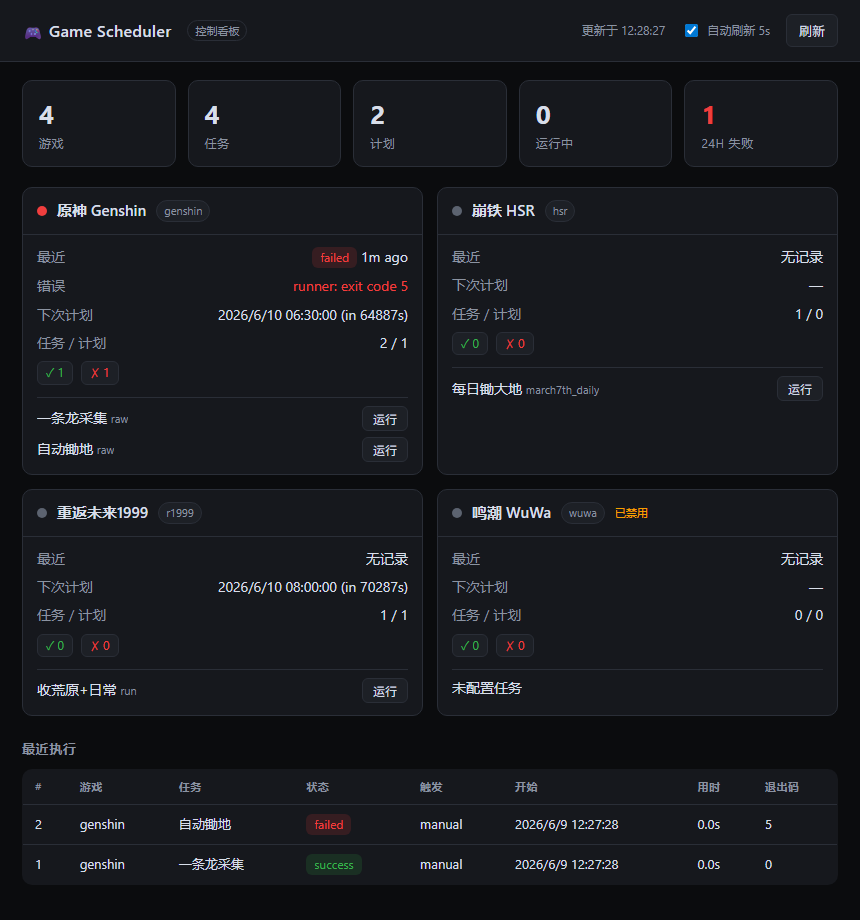
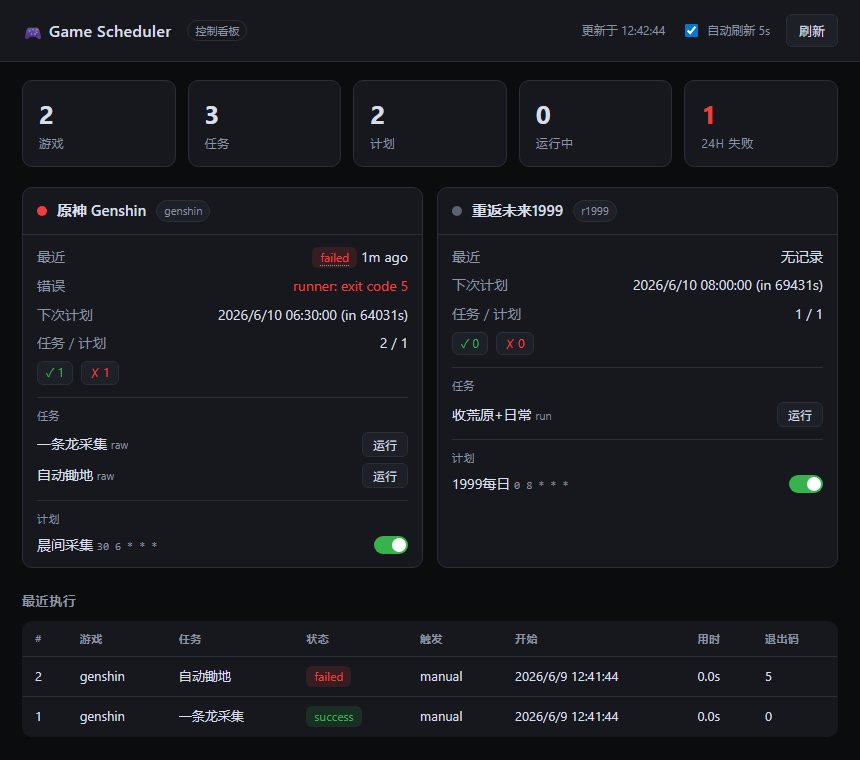
feat: dashboard execution-detail modal + per-plan toggles
- /api/dashboard now includes each game's plan_list (id/name/cron/enabled/
  next_run) and last_exec_id.
- Dashboard: click a recent row or a card's last-run badge to open a modal
  with command, error, stdout/stderr, exit code, timings and screenshot path;
  active runs get a Cancel button (POST /executions/{id}/cancel).
- Per-plan enable/disable switches on each game card (PUT /plans/{id}); the
  scheduler reloads and next-run updates live.
- Refreshed docs/dashboard.png and README.

diff --git a/internal/api/web/index.html b/internal/api/web/index.html
@@ -65,6 +65,32 @@
   h2{font-size:13px;color:var(--muted);text-transform:uppercase;letter-spacing:.6px;margin:0 0 10px}
   .empty{color:var(--muted);padding:24px;text-align:center}
   #err{color:var(--err);font-size:12px}
+  tbody tr{cursor:pointer} tbody tr:hover td{background:var(--panel2)}
+  .clickable{cursor:pointer;text-decoration:underline dotted var(--muted) 1px;text-underline-offset:3px}
+  .plans{border-top:1px solid var(--border);margin-top:4px;padding-top:8px;display:grid;gap:6px}
+  .plan{display:flex;align-items:center;gap:8px;justify-content:space-between}
+  .plan .pn{overflow:hidden;text-overflow:ellipsis;white-space:nowrap}
+  .plan .cron{color:var(--muted);font-size:11px;font-family:ui-monospace,Consolas,monospace}
+  .switch{position:relative;width:34px;height:18px;flex:none}
+  .switch input{opacity:0;width:0;height:0}
+  .slider{position:absolute;inset:0;background:var(--idle);border-radius:20px;transition:.2s;cursor:pointer}
+  .slider:before{content:"";position:absolute;height:14px;width:14px;left:2px;top:2px;background:#fff;border-radius:50%;transition:.2s}
+  .switch input:checked + .slider{background:var(--ok)}
+  .switch input:checked + .slider:before{transform:translateX(16px)}
+  .sub{color:var(--muted);font-size:11px;text-transform:uppercase;letter-spacing:.5px;margin:2px 0}
+  /* modal */
+  .overlay{position:fixed;inset:0;background:rgba(0,0,0,.6);display:none;align-items:flex-start;justify-content:center;z-index:50;padding:40px 16px;overflow:auto}
+  .overlay.open{display:flex}
+  .modal{background:var(--panel);border:1px solid var(--border);border-radius:12px;width:min(820px,100%);max-height:85vh;display:flex;flex-direction:column}
+  .modal .mh{display:flex;align-items:center;gap:10px;padding:14px 18px;border-bottom:1px solid var(--border)}
+  .modal .mh h3{margin:0;font-size:15px;flex:1}
+  .modal .mb{padding:16px 18px;overflow:auto}
+  .modal .x{cursor:pointer;color:var(--muted);font-size:20px;line-height:1}
+  .kv{display:grid;grid-template-columns:120px 1fr;gap:6px 14px;margin-bottom:14px}
+  .kv .k{color:var(--muted)}
+  pre{background:var(--bg);border:1px solid var(--border);border-radius:8px;padding:10px 12px;margin:0 0 12px;
+    max-height:240px;overflow:auto;white-space:pre-wrap;word-break:break-word;font:12px/1.5 ui-monospace,Consolas,monospace}
+  .danger{border-color:var(--err);color:var(--err)} .danger:hover{background:rgba(240,62,62,.12)}
 </style>
 </head>
 <body>
@@ -86,6 +112,12 @@
     <tbody id="recent"></tbody>
   </table>
 </main>
+<div class="overlay" id="overlay">
+  <div class="modal">
+    <div class="mh"><h3 id="m-title">执行详情</h3><span class="x" onclick="closeModal()">✕</span></div>
+    <div class="mb" id="m-body"></div>
+  </div>
+</div>
 <script>
 const $ = s => document.querySelector(s);
 function fmtTime(t){ if(!t) return "—"; const d=new Date(t); if(isNaN(d)) return "—"; return d.toLocaleString(); }
@@ -113,8 +145,18 @@ function gameCard(g){
       ${g.active?`<span class="pill run">● ${g.active} 进行中</span>`:""}
     </div>`;
   const last = g.last_status
-    ? `<span class="st ${g.last_status}">${g.last_status}</span> <span class="meta">${rel(g.last_run)}</span>`
+    ? `<span class="st ${g.last_status} clickable" onclick="openExec(${g.last_exec_id})">${g.last_status}</span> <span class="meta">${rel(g.last_run)}</span>`
     : `<span class="meta">无记录</span>`;
+  const plans = (g.plan_list||[]).map(p=>`
+      <div class="plan">
+        <span class="pn">${esc(p.name)} <span class="cron">${esc(p.cron)}</span></span>
+        <label class="switch" title="${p.enabled?'已启用':'已停用'} · 下次 ${p.next_run?fmtTime(p.next_run):'—'}">
+          <input type="checkbox" ${p.enabled?'checked':''} onchange="togglePlan(${esc(JSON.stringify(p)).replace(/'/g,'&#39;')},this)">
+          <span class="slider"></span>
+        </label>
+      </div>`).join("");
+  const plansBlock = (g.plan_list||[]).length
+      ? `<div class="plans"><div class="sub">计划</div>${plans}</div>` : "";
   const lastErr = (g.last_status==='error'||g.last_status==='failed')&&g.last_error
     ? `<div class="row"><span class="k">错误</span><span class="val" style="color:var(--err);max-width:200px;overflow:hidden;text-overflow:ellipsis;white-space:nowrap" title="${esc(g.last_error)}">${esc(g.last_error)}</span></div>` : "";
   const tasks = (g.task_list||[]).map(t=>`
@@ -133,7 +175,8 @@ function gameCard(g){
       <div class="row"><span class="k">下次计划</span><span class="val">${g.next_run?fmtTime(g.next_run)+' ('+rel(g.next_run)+')':'—'}</span></div>
       <div class="row"><span class="k">任务 / 计划</span><span class="val">${g.tasks} / ${g.plans}</span></div>
       ${counts}
-      <div class="tasks">${tasks}</div>
+      <div class="tasks"><div class="sub">任务</div>${tasks}</div>
+      ${plansBlock}
     </div>
   </div>`;
 }
@@ -147,13 +190,63 @@ async function load(){
       statCard(d.totals.games,"游戏")+statCard(d.totals.tasks,"任务")+statCard(d.totals.plans,"计划")+
       statCard(d.totals.running,"运行中")+statCard(d.totals.failed_24h,"24h 失败",d.totals.failed_24h>0);
     $("#games").innerHTML = (d.games||[]).map(gameCard).join("") || '<div class="empty">还没有配置游戏。用 ctl 或 REST API 添加。</div>';
-    const rows=(d.recent||[]).map(e=>`<tr>
+    const rows=(d.recent||[]).map(e=>`<tr onclick="openExec(${e.id})">
         <td>${e.id}</td><td>${esc(e.game_id)}</td><td>${esc(e.task_name)}</td>
         <td><span class="st ${e.status}">${e.status}</span></td>
         <td>${esc(e.trigger)}</td><td>${fmtTime(e.start_time)}</td>
         <td>${dur(e.duration_sec)}</td><td>${e.exit_code==null?'—':e.exit_code}</td></tr>`).join("");
     $("#recent").innerHTML = rows || '<tr><td colspan="8" class="empty">暂无执行记录</td></tr>';
   }catch(e){ $("#err").textContent="加载失败: "+e; }
+}
+
+async function openExec(id){
+  if(!id) return;
+  const ov=$("#overlay"), body=$("#m-body");
+  $("#m-title").textContent="执行 #"+id;
+  body.innerHTML='<div class="empty">加载中…</div>'; ov.classList.add("open");
+  try{
+    const r=await fetch("/api/executions/"+id); if(!r.ok) throw new Error("HTTP "+r.status);
+    const e=await r.json();
+    const active = e.status==="running"||e.status==="pending";
+    const shot = e.screenshot_path ? `<div class="kv"><span class="k">截图</span><span><code>${esc(e.screenshot_path)}</code></span></div>` : "";
+    body.innerHTML=`
+      <div class="kv">
+        <span class="k">状态</span><span><span class="st ${e.status}">${e.status}</span></span>
+        <span class="k">触发</span><span>${esc(e.trigger)}</span>
+        <span class="k">退出码</span><span>${e.exit_code==null?'—':e.exit_code}</span>
+        <span class="k">开始</span><span>${fmtTime(e.start_time)}</span>
+        <span class="k">结束</span><span>${fmtTime(e.end_time)}</span>
+        <span class="k">重试</span><span>${e.retry_count||0}</span>
+      </div>
+      ${shot}
+      <div class="sub">命令</div><pre>${esc(e.command)||'—'}</pre>
+      ${e.error_msg?`<div class="sub">错误</div><pre style="color:var(--err)">${esc(e.error_msg)}</pre>`:""}
+      <div class="sub">stdout</div><pre>${esc(e.stdout)||'(空)'}</pre>
+      <div class="sub">stderr</div><pre>${esc(e.stderr)||'(空)'}</pre>
+      ${active?`<button class="danger" onclick="cancelExec(${e.id})">取消执行</button>`:""}`;
+  }catch(err){ body.innerHTML='<div class="empty">加载失败: '+esc(String(err))+'</div>'; }
+}
+function closeModal(){ $("#overlay").classList.remove("open"); }
+$("#overlay").addEventListener("click",e=>{ if(e.target.id==="overlay") closeModal(); });
+document.addEventListener("keydown",e=>{ if(e.key==="Escape") closeModal(); });
+
+async function cancelExec(id){
+  try{
+    const r=await fetch("/api/executions/"+id+"/cancel",{method:"POST"});
+    if(!r.ok && r.status!==409) throw new Error("HTTP "+r.status);
+    setTimeout(()=>{openExec(id);load();},600);
+  }catch(e){ $("#err").textContent="取消失败: "+e; }
+}
+
+async function togglePlan(p,el){
+  el.disabled=true;
+  try{
+    const body={name:p.name,task_id:p.task_id,cron_expr:p.cron,enabled:el.checked};
+    const r=await fetch("/api/plans/"+p.id,{method:"PUT",headers:{"Content-Type":"application/json"},body:JSON.stringify(body)});
+    if(!r.ok) throw new Error("HTTP "+r.status);
+    $("#err").textContent=""; setTimeout(load,400);
+  }catch(e){ el.checked=!el.checked; $("#err").textContent="计划更新失败: "+e; }
+  finally{ el.disabled=false; }
 }
 
 let timer=null;

diff --git a/internal/api/dashboard.go b/internal/api/dashboard.go
@@ -31,6 +31,15 @@ type taskBrief struct {
 	Type string `json:"type"`
 }
 
+type planBrief struct {
+	ID      int64      `json:"id"`
+	Name    string     `json:"name"`
+	TaskID  int64      `json:"task_id"`
+	Cron    string     `json:"cron"`
+	Enabled bool       `json:"enabled"`
+	NextRun *time.Time `json:"next_run,omitempty"`
+}
+
 type gameSummary struct {
 	ID         string      `json:"id"`
 	Name       string      `json:"name"`
@@ -45,8 +54,10 @@ type gameSummary struct {
 	LastStatus string      `json:"last_status,omitempty"`
 	LastRun    *time.Time  `json:"last_run,omitempty"`
 	LastError  string      `json:"last_error,omitempty"`
+	LastExecID int64       `json:"last_exec_id,omitempty"`
 	NextRun    *time.Time  `json:"next_run,omitempty"`
 	TaskList   []taskBrief `json:"task_list"`
+	PlanList   []planBrief `json:"plan_list"`
 }
 
 // recentWindow bounds how many executions feed the board's aggregates.
@@ -81,7 +92,7 @@ func (s *Server) dashboard(w http.ResponseWriter, r *http.Request) {
 	d := dashboard{GeneratedAt: time.Now()}
 	for i := range games {
 		g := games[i]
-		gs := &gameSummary{ID: g.ID, Name: g.Name, Adapter: g.Adapter, Enabled: g.Enabled, TaskList: []taskBrief{}}
+		gs := &gameSummary{ID: g.ID, Name: g.Name, Adapter: g.Adapter, Enabled: g.Enabled, TaskList: []taskBrief{}, PlanList: []planBrief{}}
 		byGame[g.ID] = gs
 	}
 
@@ -98,6 +109,9 @@ func (s *Server) dashboard(w http.ResponseWriter, r *http.Request) {
 		gid := taskGame[p.TaskID]
 		if gs := byGame[gid]; gs != nil {
 			gs.Plans++
+			gs.PlanList = append(gs.PlanList, planBrief{
+				ID: p.ID, Name: p.Name, TaskID: p.TaskID, Cron: p.CronExpr, Enabled: p.Enabled, NextRun: p.NextRunAt,
+			})
 			if p.Enabled && p.NextRunAt != nil {
 				if gs.NextRun == nil || p.NextRunAt.Before(*gs.NextRun) {
 					gs.NextRun = p.NextRunAt
@@ -141,9 +155,10 @@ func (s *Server) dashboard(w http.ResponseWriter, r *http.Request) {
 			gs.Failed++
 		}
 		// first exec encountered per game is the most recent (id desc order)
-		if gs.LastStatus == "" {
+		if gs.LastExecID == 0 {
 			gs.LastStatus = e.Status
 			gs.LastRun = e.StartTime
+			gs.LastExecID = e.ID
 			if e.Status == store.StatusFailed {
 				gs.LastError = e.ErrorMsg
 			}

diff --git a/README.md b/README.md
@@ -126,8 +126,14 @@ It shows:
   task/plan counts, success/fail pills, and a disabled tag if the game is off.
 - **Per-task Run buttons** — click to trigger a manual run (`POST
   /api/tasks/{id}/run`); the board refreshes to show it queue/run.
+- **Per-plan enable/disable toggles** — flip a schedule on/off inline (`PUT
+  /api/plans/{id}`); the scheduler reloads and the next-run time updates.
 - **Recent executions table** — newest 25, with status badge, trigger, start
   time, duration and exit code.
+- **Execution detail modal** — click any recent row (or a card's last-run
+  badge) to see the full command, error, **stdout/stderr**, exit code, timings
+  and screenshot path. If the run is still active, a **Cancel** button stops it
+  (`POST /api/executions/{id}/cancel`, kills the whole process tree).
 
 The board is driven entirely by the REST API, so anything it shows is also
 available programmatically via `GET /api/dashboard`.